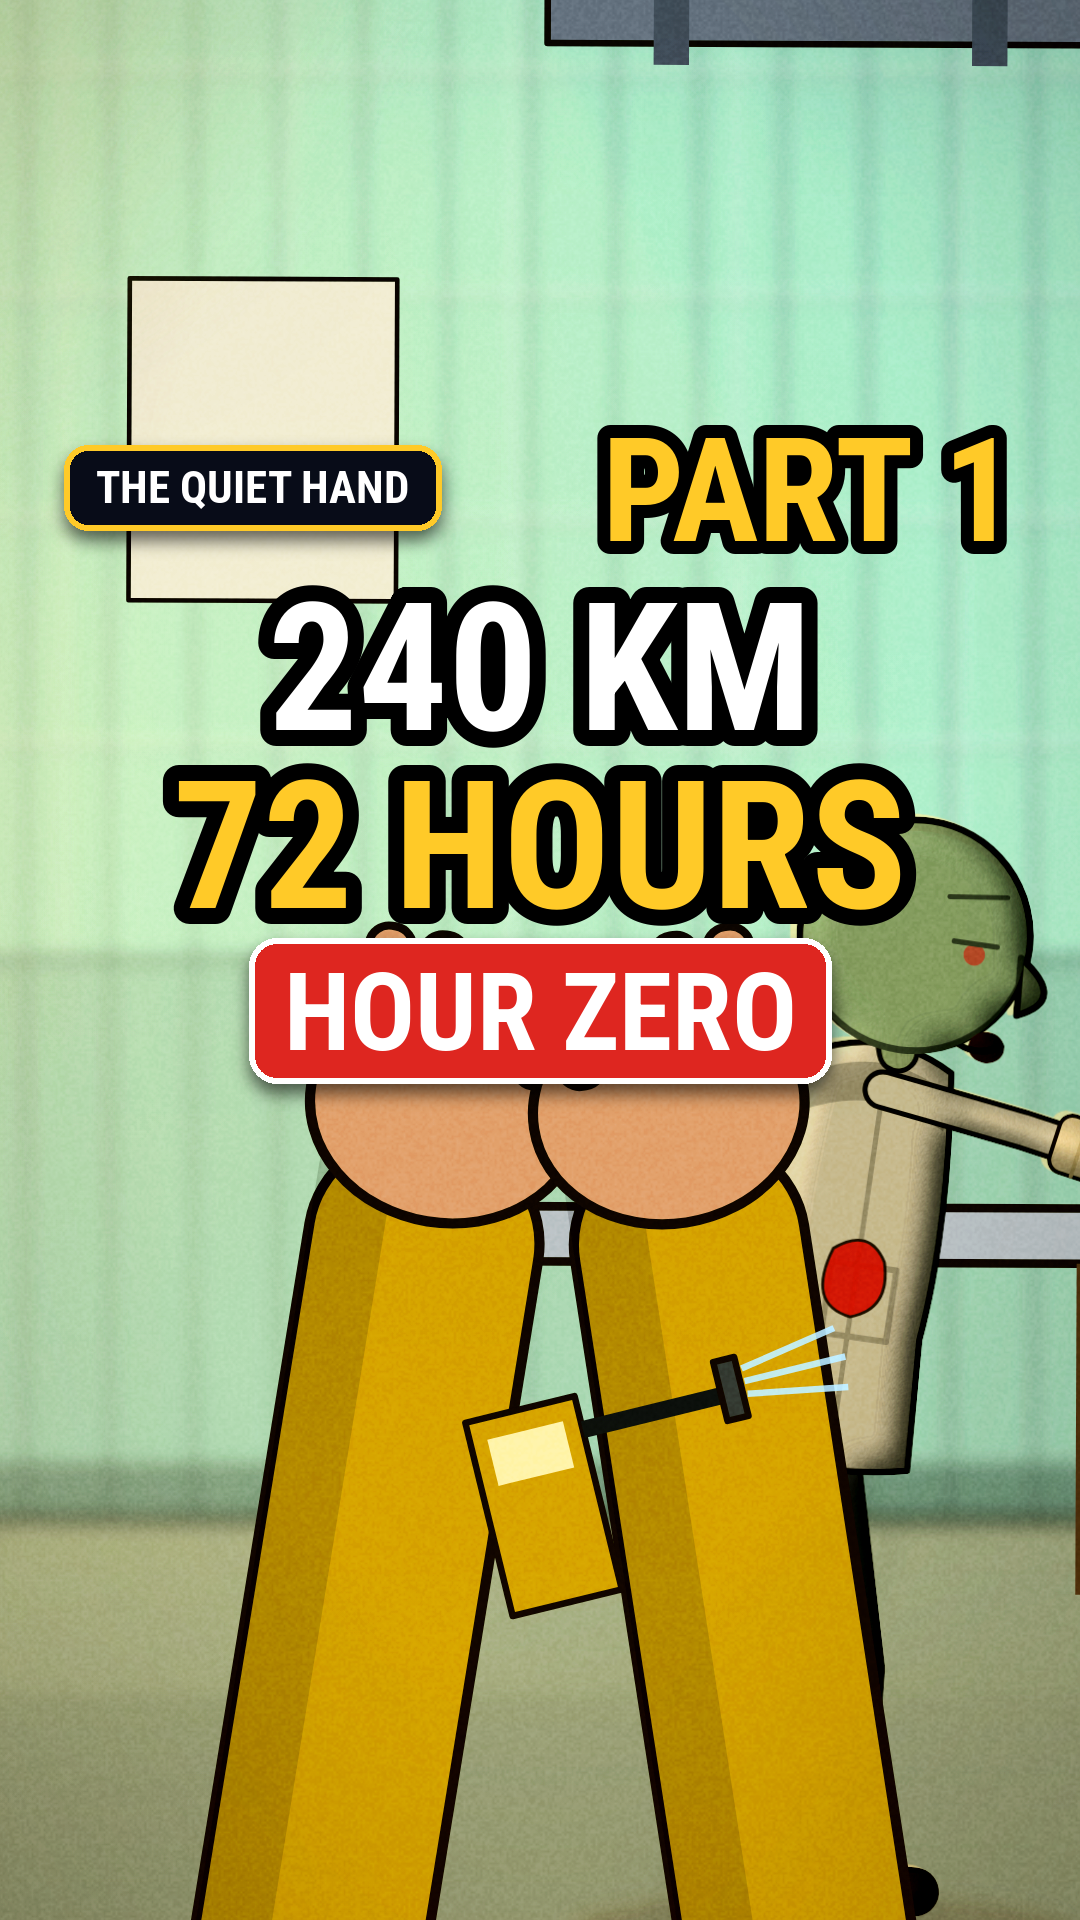
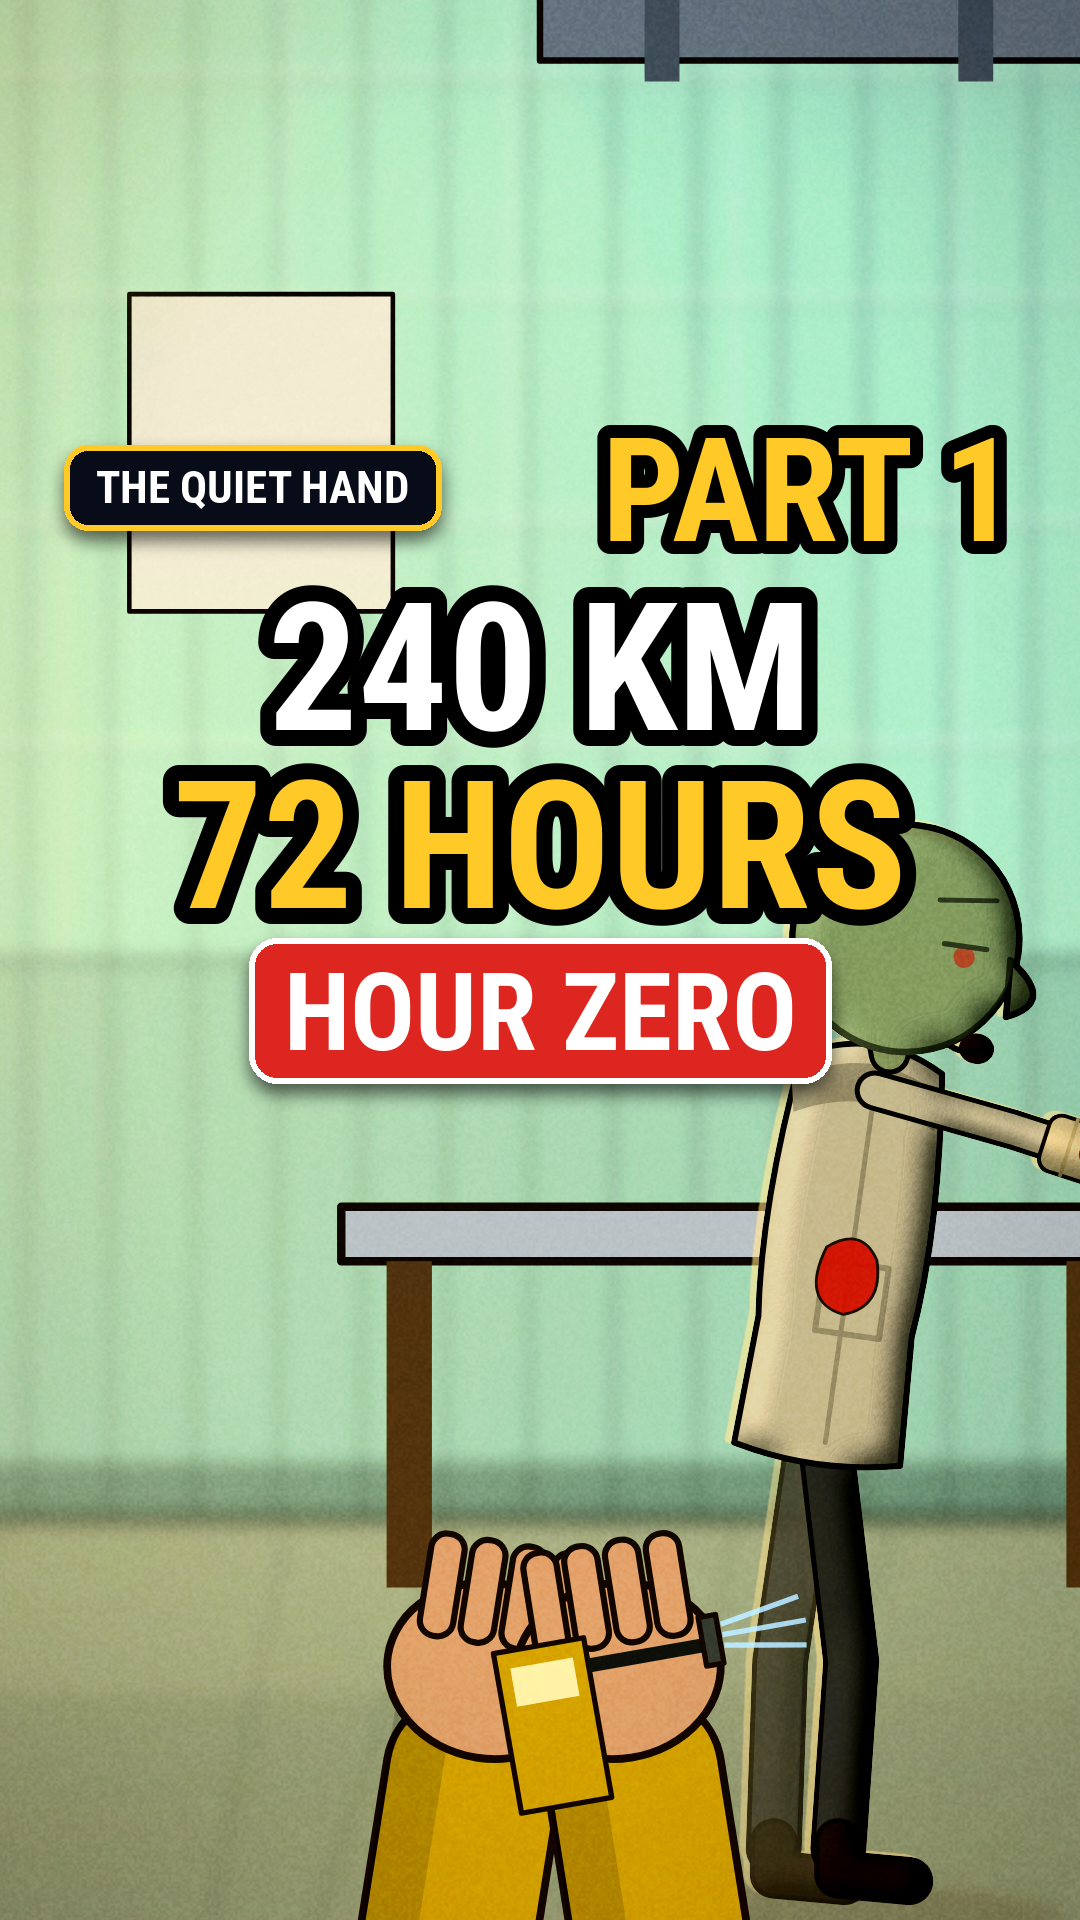
Ep1: continuous walking between scenes (exit/enter), tools attached to the hand, depth-walk scaling, calmer POV camera

diff --git a/studio/long/pax9.js b/studio/long/pax9.js
@@ -177,7 +177,8 @@ actor=function(g,o){
   if(o.squash){const lt=bt-o.squash.at;if(lt>0&&lt<.25){const p=Math.sin(lt/.25*Math.PI);sy=1-.12*p;sx=1+.1*p}}
   if(o.snore){const br=Math.sin(t*2.2);sy*=1+.012*br;bob+=br*1.5}else{sy*=1+.010*Math.sin(t*2.3+(o.ph||0))}   // breathing
   if(!root.__th&&window.__thin){root.__th=1;if(window.SPEC&&SPEC.world&&SPEC.world.line)window.__thin(root)}
-  A(root,{transform:`translate(${x} ${y+bob}) rotate(${rot}) scale(${base.s*base.fl*base.sx*sx} ${base.s*sy})`});
+  const bs=o.sto!=null?lerp(base.s,o.sto,k):base.s;
+  A(root,{transform:`translate(${x} ${y+bob}) rotate(${rot}) scale(${bs*base.fl*base.sx*sx} ${bs*sy})`});
   const talk=o.talk===true?who:o.talk;const m=talk?mouth(talk):(o.mouth||0);hds.forEach(h=>{if(h&&h._mouth)h._mouth(m);if(h&&h._blink)h._blink(t,(o.ph||0)*3.1)})},root,A1,A2}};
 
 /* Amara's baby sling: the baby's head + hat peeks out (front view only) */

diff --git a/studio/long/worldlib.py b/studio/long/worldlib.py
@@ -60,12 +60,17 @@ class World:
         """FIRST-PERSON view (the hero's eyes): the set seen through his eyes at hand-held camera, zombies in front of him drawn BIG (they are close), his two forearms and the tool at the bottom of the frame.
         zombies: list of (var, x, floor_y, face) ; the camera sits at world x; scale of a zombie grows with closeness"""
         acts=[s.zed(v,zx,zy,sc=max(.3,(zy-430)/210.0),face=fc) for v,zx,zy,fc in zombies]      # depth: a zombie whose feet are lower on the floor is closer, so it is drawn bigger
-        fg=[dict(k='prop',t='hands',x=x+4,y=y+400/z+210/z,s=1.3/z,gap=100)]
-        if hands:fg.append(dict(k='prop',t=hands,x=x+8,y=y+250/z,s=(.62 if hands=='wrench' else .75)/z*1.1,rot=-14,flip=False))
+        fg=[dict(k='prop',t='hands',x=x+4,y=y+400/z+300/z,s=1.0/z,gap=92)]
+        if hands:fg.append(dict(k='prop',t=hands,x=x+8,y=y+330/z,s=(.5 if hands=='wrench' else .62)/z*1.1,rot=-10,flip=False))
         return s.set(loc,acts+fg+(extra or []),x=x,y=y,z=z,**p)
     def zat(s,var,X,z,face='front',**k):
         """a zombie in a lane / corridor at lateral X and depth z (same projection as W.at, so size follows distance)"""
         L=s.lane_pos(X,z);return s.zed(var,L['x'],L['y'],1.5/z,face=face,**k)
+    def grip(s,who_act,item='wrench',view='side'):
+        """a tool held in the hand of a standing actor (jaw hanging down); returns a prop act attached at the hand position"""
+        sc_=who_act['s'];sg=-1 if who_act.get('flip') else 1
+        hx,hy=(24,-132) if view=='side' else (34,-128)
+        return dict(k='prop',t=item,x=who_act['x']+sg*hx*sc_,y=who_act['y']+hy*sc_,s=sc_*.55,rot=sg*172,flip=False)
     def hold(s,act,item,dx=46,dy=-120,sc=.5,**k):
         """a person holding a prop: returns [person, prop] (the prop follows the person when it walks)"""
         p=dict(k='prop',t=item,x=act['x']+dx*act['s']/.8,y=act['y']+dy*act['s']/.8,s=sc*act['s']/.8);p.update(k)
@@ -178,8 +183,8 @@ def strike(sc,who,zname,word,held=None,wind=.5,kill=True,fall_dx=34,**kw):
             a['shake']=dict(at=wind+.12,dur=.3,amp=7)
             if kill:a['fall']=dict(at=wind+.12,dur=.6,rot=-88,dx=fall_dx*(1 if a.get('flip') else -1))
     if held:
-        x,y=st['x'],st['y'];k=lambda at,dx,dy,r:dict(at=at,x=x+sg*dx,y=y+dy*sc_/.72,rot=sg*r)
-        scn['p']['acts'].append(dict(k='prop',t=held,s=sc_*.55,flip=False,x=x,y=y,keys=[k(0,24,-150,-72),k(wind*.9,12,-168,-86),k(wind+.1,86,-96,66),k(wind+.5,70,-104,40)]))
+        x,y=st['x'],st['y'];hk=lambda at,hx,hy,r:dict(at=at,x=x+sg*hx*sc_,y=y+hy*sc_,rot=sg*r)      # hand positions come from the pose tables (windup / punch / follow), scaled by the actor
+        scn['p']['acts'].append(dict(k='prop',t=held,s=sc_*.55,flip=False,x=x,y=y,keys=[hk(0,-62,-320,-28),hk(wind*.9,-70,-330,-40),hk(wind-.06,10,-300,18),hk(wind,100,-250,82),hk(wind+.1,100,-228,96),hk(wind+.45,96,-160,128)]))
     if kill:sc.zdown(zname,dx0=fall_dx)
     fx=[sticker(wind+.1,word,x=225,y=170,rot=-6,size=62,c='#ffcf6a',dur=.9),shake(wind+.1,7,.35)]
     return shot,fx

diff --git a/studio/departments/BACKLOG.md b/studio/departments/BACKLOG.md
@@ -1,13 +1,13 @@
 # Studio backlog (generated by improve.py, do not edit by hand)
 
-Updated 2026-10-30 14:25 UTC from 4 reviewed clips. Work from the top; fix the CAUSE in the toolchain, then re-review.
+Updated 2026-10-30 14:46 UTC from 4 reviewed clips. Work from the top; fix the CAUSE in the toolchain, then re-review.
 
 | # | dept | seen in | issue |
 |---:|---|---:|---|
-| 1 | art | 2 | LAYOUT: 8 person(s) cut by the frame edge, e.g. [(6, 'z_hoodie', 592), (18, 'z_dress', 451), (18, 'z_hoodie', 634), (19, 'z_hoodie', 441)]: reframe or move them inside x 40-410 |
-| 2 | editorial | 3 | EDITORIAL: 5 caption(s) on screen < 0.6 s [('IF YOU HEAR', 0.51), ('TWO.', 0.58), ('THREE.', 0.56)] |
-| 3 | direction | 2 | DIRECTION: more than 3 shots of the same size in a row (beats [22]): vary wide / medium / close |
-| 4 | direction | 2 | DIRECTION: the same picture (place + size) holds for 7.5 s (> 6.5 s): cut, move the camera or change the subject |
+| 1 | art | 2 | LAYOUT: 10 person(s) cut by the frame edge, e.g. [(6, 'z_hoodie', 592), (14, 'ren', 468), (19, 'z_dress', 451), (19, 'z_hoodie', 634)]: reframe or move them inside x 40-410 |
+| 2 | editorial | 3 | EDITORIAL: 5 caption(s) on screen < 0.6 s [('IF YOU HEAR', 0.51), ('TWO.', 0.58), ('THREE.', 0.57)] |
+| 3 | direction | 2 | DIRECTION: more than 3 shots of the same size in a row (beats [17, 23, 24]): vary wide / medium / close |
+| 4 | direction | 2 | DIRECTION: the same picture (place + size) holds for 8.2 s (> 6.5 s): cut, move the camera or change the subject |
 | 5 | qc | 2 | QC: total bitrate 4.8 Mbps (3-14) |
 | 6 | editorial | 2 | EDITORIAL: 1 caption chunk(s) stop on a dangling word, e.g. ['SCREAMING ABOVE YOU,']: break captions at phrase boundaries |
 | 7 | editorial | 2 | EDITORIAL: 6 caption(s) read faster than 17 characters/s [('IF YOU HEAR', 21.4), ('SCREAMING ABOVE YOU,', 19.5), ("DON'T GO UP.", 17.5)] |
@@ -20,5 +20,5 @@ Updated 2026-10-30 14:25 UTC from 4 reviewed clips. Work from the top; fix the C
 | 14 | sound | 1 | voices ann and omar sound alike (f0 144 vs 142 Hz): recast or pitch-shift one |
 | 15 | sound | 1 | pip: during speech the bed (music+sfx) is -3.9 dB relative to the voice (must be <= -6): the voice is not on top |
 | 16 | editorial | 1 | EDITORIAL: scene beat 14 lasts 7.3 s (> 6.5 s) |
-| 17 | sound | 1 | dead air 1.9 s between lines |
+| 17 | sound | 1 | dead air 3.2 s between lines |
 | 18 | writing | 1 | WRITING: ren talks 3 lines in a row: break it with a reaction or action |

diff --git a/studio/departments/scorecards/quiet_01.md b/studio/departments/scorecards/quiet_01.md
@@ -1,4 +1,4 @@
-# Scorecard quiet_01  (2026-10-30 14:25 UTC)
+# Scorecard quiet_01  (2026-10-30 14:46 UTC)
 
 | department | score | bar | verdict |
 |---|---:|---:|---|
@@ -16,19 +16,19 @@
 * STORY/storylint(warn): a 2.5D lane location is used
 
 ## art
-* LAYOUT: 8 person(s) cut by the frame edge, e.g. [(6, 'z_hoodie', 592), (18, 'z_dress', 451), (18, 'z_hoodie', 634), (19, 'z_hoodie', 441)]: reframe or move them inside x 40-410
+* LAYOUT: 10 person(s) cut by the frame edge, e.g. [(6, 'z_hoodie', 592), (14, 'ren', 468), (19, 'z_dress', 451), (19, 'z_hoodie', 634)]: reframe or move them inside x 40-410
 
 ## sound
-* dead air 1.9 s between lines
+* dead air 3.2 s between lines
 
 ## editorial
 * EDITORIAL: 1 caption chunk(s) stop on a dangling word, e.g. ['SCREAMING ABOVE YOU,']: break captions at phrase boundaries
-* EDITORIAL: 5 caption(s) on screen < 0.6 s [('IF YOU HEAR', 0.51), ('TWO.', 0.58), ('THREE.', 0.56)]
+* EDITORIAL: 5 caption(s) on screen < 0.6 s [('IF YOU HEAR', 0.51), ('TWO.', 0.58), ('THREE.', 0.57)]
 * EDITORIAL: 6 caption(s) read faster than 17 characters/s [('IF YOU HEAR', 21.4), ('SCREAMING ABOVE YOU,', 19.5), ("DON'T GO UP.", 17.5)]
 
 ## direction
-* DIRECTION: more than 3 shots of the same size in a row (beats [22]): vary wide / medium / close
-* DIRECTION: the same picture (place + size) holds for 7.5 s (> 6.5 s): cut, move the camera or change the subject
+* DIRECTION: more than 3 shots of the same size in a row (beats [17, 23, 24]): vary wide / medium / close
+* DIRECTION: the same picture (place + size) holds for 8.2 s (> 6.5 s): cut, move the camera or change the subject
 
 ## writing
 * WRITING: ren talks 3 lines in a row: break it with a reaction or action
